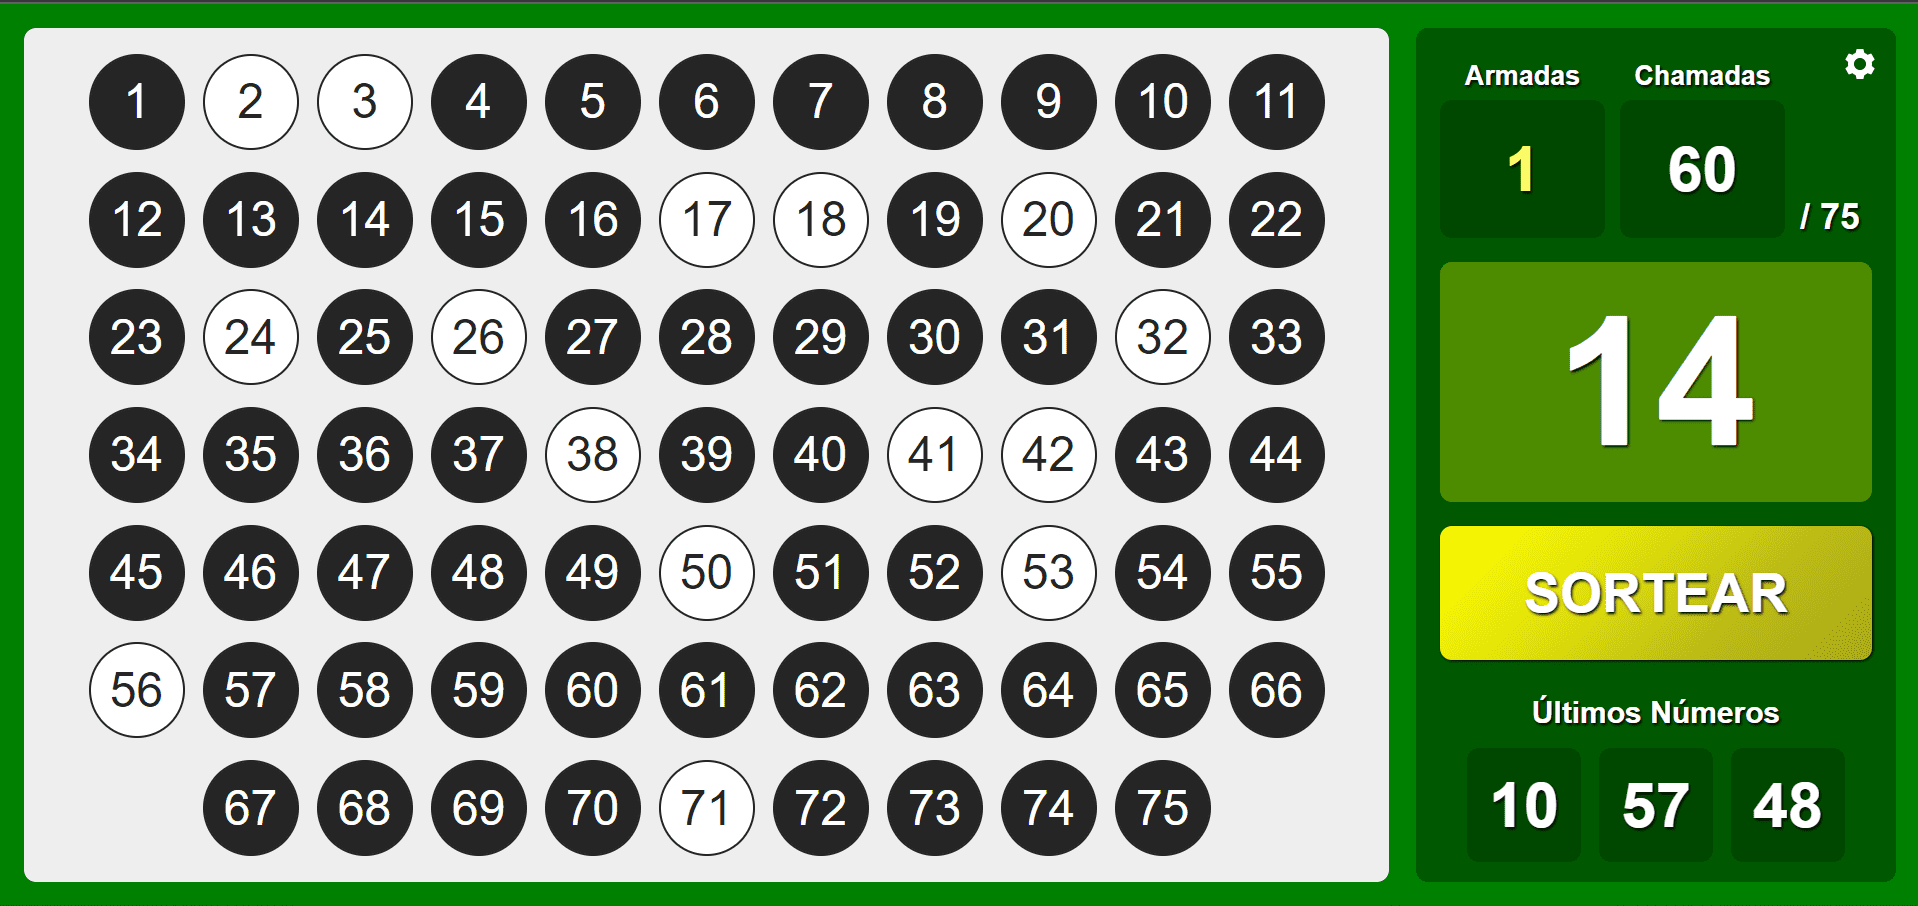
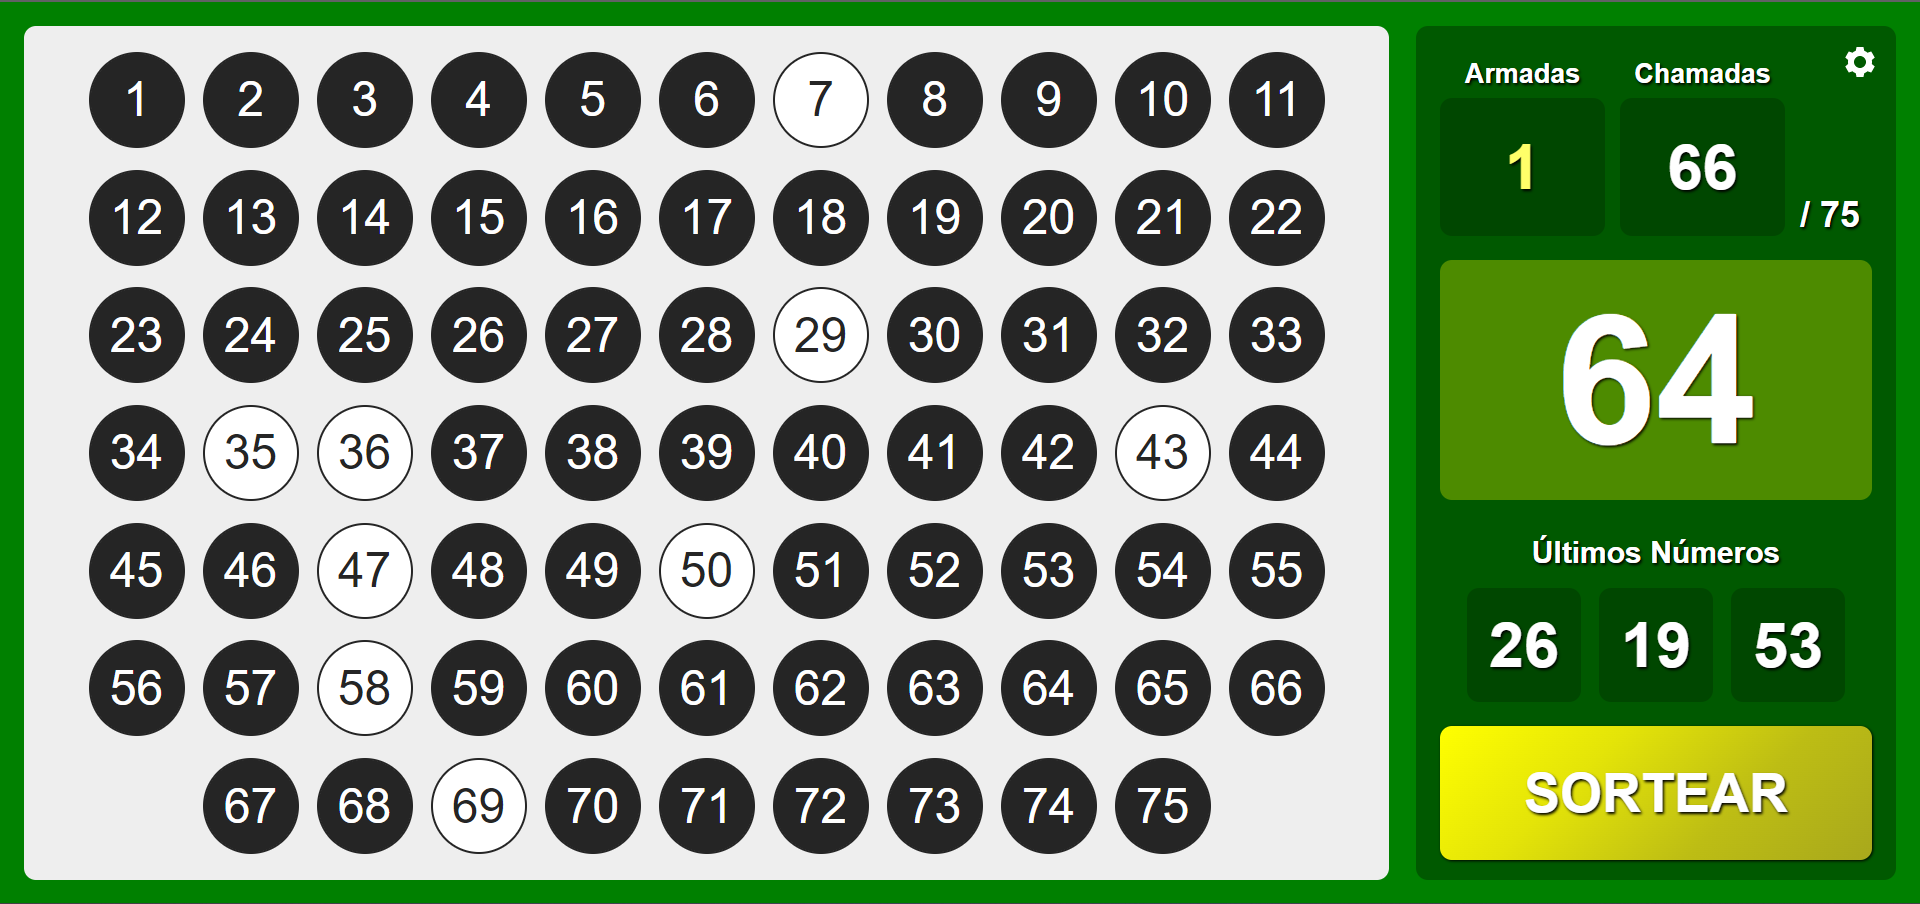
update layout button

diff --git a/Projects/bingo/index.html b/Projects/bingo/index.html
@@ -34,10 +34,6 @@
                     <div class="numberCall">-</div>
                 </section>
 
-                <section class="buttonBingoContainer">
-                    <button class="bingo buttonBingo buttonColor">SORTEAR</button>
-                </section>
-
                 <section class="lastNumbersContainer">
                     <h2>Últimos Números</h2>
                     <div class="lastNumbers">
@@ -45,6 +41,10 @@
                         <div class="lastNumber2">-</div>
                         <div class="lastNumber3">-</div>
                     </div>
+                </section>
+
+                <section class="buttonBingoContainer">
+                    <button class="bingo buttonBingo buttonColor">SORTEAR</button>
                 </section>
             </article>
         </main>

diff --git a/Projects/bingo/styles/numbers.css b/Projects/bingo/styles/numbers.css
@@ -72,21 +72,22 @@
     .bingoContainer {
         display: flex;
         flex-direction: column;
+        justify-content: space-around;
         gap: 1.0rem;
     }
 
     .numbersContainer {
-        gap: .6rem;
+        gap: .4rem;
         padding: 1.8rem 1.0rem;
     }
 
     .number {
-        height: 4.0rem;
-        width: 4.0rem;
+        height: 2.8rem;
+        width: 2.8rem;
 
-        border: .195rem solid #252525;
+        border: .13rem solid #252525;
 
-        font-size: 2.0rem;
+        font-size: 1.6rem;
         font-weight: 500;
         color: #252525;
         background: white;

diff --git a/Projects/bingo/script.js b/Projects/bingo/script.js
@@ -290,14 +290,12 @@ newBingoButton.addEventListener('click', (event) => {
     newBingo()
 })
 
+
 let bingoDataLocal = localStorage.getItem('bingoData')
 let bingoData = JSON.parse(bingoDataLocal)
-
-alert(bingoData)
-
 if (bingoData) {
     updateDisplay()
 } else {
-    // newBingo()
-    openConfig()
+    newBingo()
+    // openConfig()
 }
